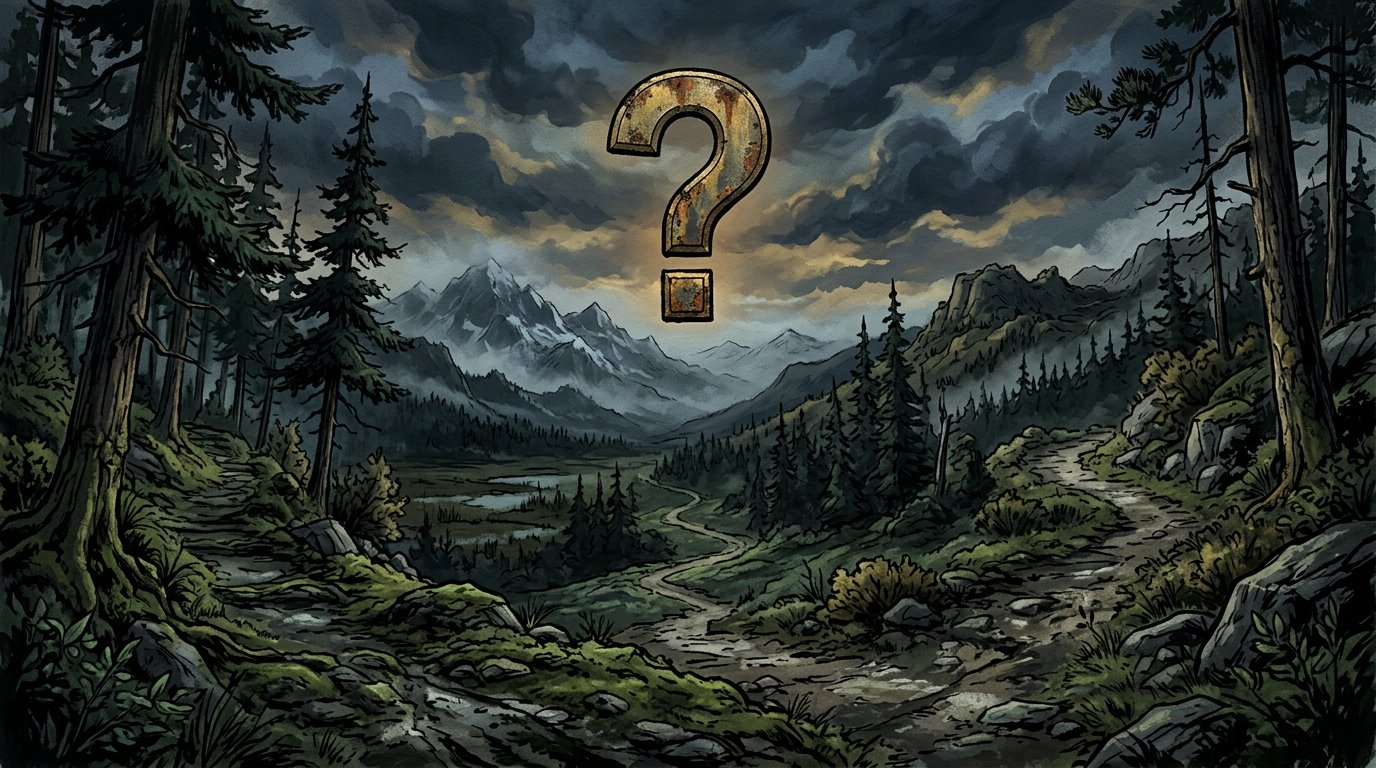
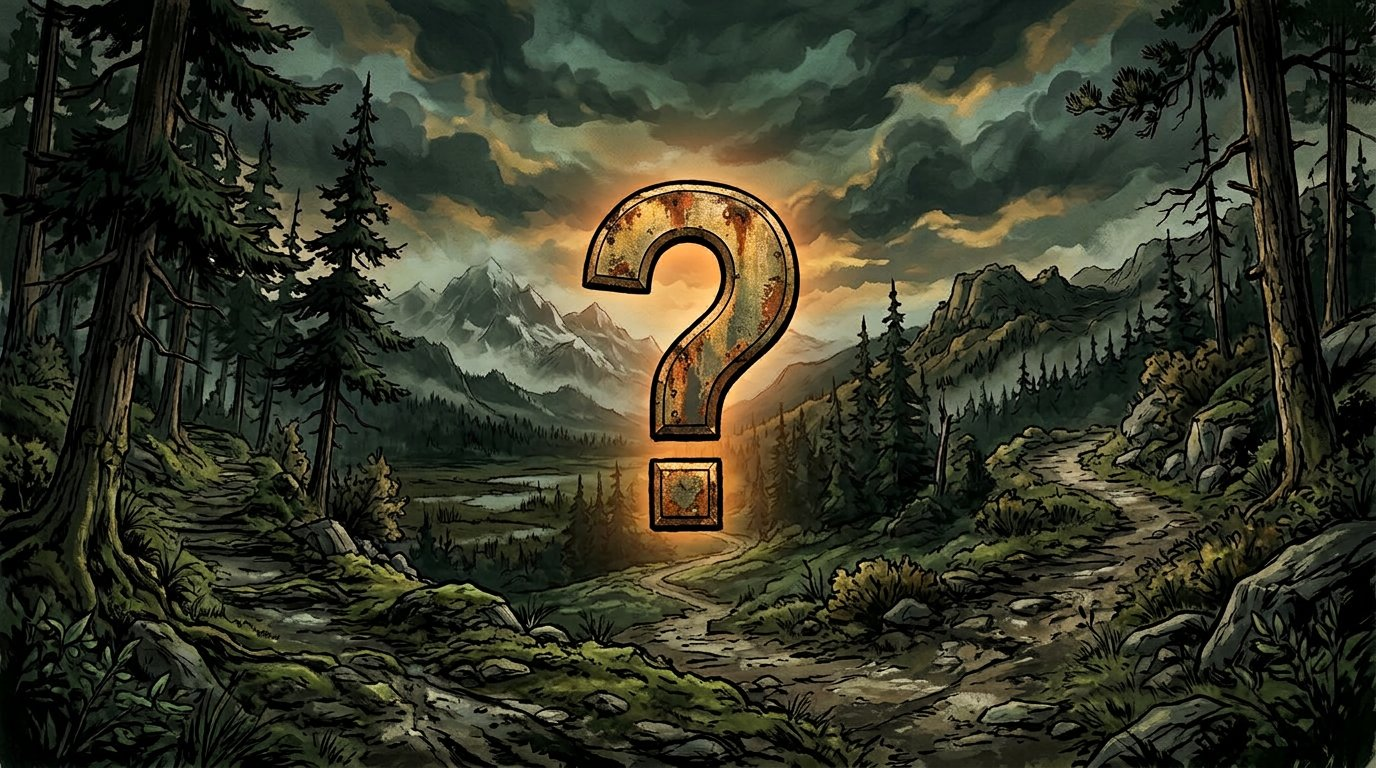
Endless-Bühne Feinschliff: Name oben, Stencil-DEPLOY mit Glow, Militär-Pfeile (IPL-0108)
- Kartenname sitzt oben am Bild, DEPLOY besitzt die Unterkante allein
- DEPLOY als Militär-Stencil auf dunkler Platte mit leuchtendem
  Messing-Rahmen und Ziel-Ecken, auf jedem Artwork lesbar
- Pfeile als genietete Oliv-Panzerplatten mit gefüllten
  Messing-Doppel-Chevrons
- Zufalls-Artwork neu: Fragezeichen exakt im Bildzentrum, wird bei
  cover-Zuschnitt nie angeschnitten
- Tests in menu-redesign und interface-smoke angepasst

diff --git a/IronPath/menu-redesign.css b/IronPath/menu-redesign.css
@@ -2670,8 +2670,10 @@ dialog#tutorialDossier::backdrop {
    ========================================================================== */
 
 /* The battlefield artwork is the whole stage: arrows and DEPLOY sit inside
-   the picture, the map name holds the bottom edge, and a click anywhere on
-   the artwork deploys. Nothing stands beside or below it any more. */
+   the picture, the map name holds the TOP edge (DEPLOY owns the bottom),
+   and a click anywhere on the artwork deploys. DEPLOY is a stencil-plate
+   with a glowing brass frame so it reads on every artwork; the arrows are
+   riveted armour plates with filled military double chevrons. */
 #endlessLaunch .endless-stage {
   position: relative;
   height: 352px;
@@ -2683,7 +2685,7 @@ dialog#tutorialDossier::backdrop {
   position: absolute;
   inset: 0;
   display: flex;
-  align-items: flex-end;
+  align-items: flex-start;
   padding: 18px 22px;
   box-sizing: border-box;
   border: 1px solid var(--hq-gold);
@@ -2719,37 +2721,37 @@ dialog#tutorialDossier::backdrop {
 
 #endlessLaunch .endless-theme-card[data-theme="random"] {
   background-image:
-    linear-gradient(180deg, rgba(11, 20, 16, 0.12) 0%, rgba(10, 18, 14, 0.88) 88%),
+    linear-gradient(180deg, rgba(10, 18, 14, 0.86) 0%, rgba(11, 20, 16, 0.10) 40%, rgba(10, 18, 14, 0.30) 100%),
     url("assets/endless-random.jpg");
 }
 
 #endlessLaunch .endless-theme-card[data-theme="scrub"] {
   background-image:
-    linear-gradient(180deg, rgba(11, 20, 16, 0.12) 0%, rgba(10, 18, 14, 0.88) 88%),
+    linear-gradient(180deg, rgba(10, 18, 14, 0.86) 0%, rgba(11, 20, 16, 0.10) 40%, rgba(10, 18, 14, 0.30) 100%),
     url("assets/story-outpost.jpg");
 }
 
 #endlessLaunch .endless-theme-card[data-theme="forest"] {
   background-image:
-    linear-gradient(180deg, rgba(11, 20, 16, 0.12) 0%, rgba(10, 18, 14, 0.88) 88%),
+    linear-gradient(180deg, rgba(10, 18, 14, 0.86) 0%, rgba(11, 20, 16, 0.10) 40%, rgba(10, 18, 14, 0.30) 100%),
     url("assets/story-pinewood.jpg");
 }
 
 #endlessLaunch .endless-theme-card[data-theme="urban"] {
   background-image:
-    linear-gradient(180deg, rgba(11, 20, 16, 0.12) 0%, rgba(10, 18, 14, 0.88) 88%),
+    linear-gradient(180deg, rgba(10, 18, 14, 0.86) 0%, rgba(11, 20, 16, 0.10) 40%, rgba(10, 18, 14, 0.30) 100%),
     url("assets/story-city.jpg");
 }
 
 #endlessLaunch .endless-theme-card[data-theme="arctic"] {
   background-image:
-    linear-gradient(180deg, rgba(11, 20, 16, 0.12) 0%, rgba(10, 18, 14, 0.88) 88%),
+    linear-gradient(180deg, rgba(10, 18, 14, 0.86) 0%, rgba(11, 20, 16, 0.10) 40%, rgba(10, 18, 14, 0.30) 100%),
     url("assets/story-ice.jpg");
 }
 
 #endlessLaunch .endless-theme-card[data-theme="marsh"] {
   background-image:
-    linear-gradient(180deg, rgba(11, 20, 16, 0.12) 0%, rgba(10, 18, 14, 0.88) 88%),
+    linear-gradient(180deg, rgba(10, 18, 14, 0.86) 0%, rgba(11, 20, 16, 0.10) 40%, rgba(10, 18, 14, 0.30) 100%),
     url("assets/story-marsh.jpg");
 }
 
@@ -2760,18 +2762,23 @@ dialog#tutorialDossier::backdrop {
   z-index: 2;
   display: grid;
   place-items: center;
-  width: 46px;
-  min-width: 46px;
-  height: 76px;
+  width: 50px;
+  min-width: 50px;
+  height: 64px;
   margin: 0;
   padding: 0;
-  border: 1px solid rgba(228, 202, 137, 0.55);
-  border-radius: 10px;
-  background: linear-gradient(180deg, rgba(13, 23, 18, 0.72) 0%, rgba(13, 23, 18, 0.52) 100%);
-  color: var(--hq-gold);
-  box-shadow: 0 6px 16px rgba(0, 0, 0, 0.42), inset 0 1px 0 rgba(228, 202, 137, 0.22);
+  border: 1px solid rgba(228, 202, 137, 0.8);
+  border-radius: 6px;
+  background:
+    radial-gradient(circle at 9px 9px, rgba(243, 223, 176, 0.95) 1.7px, rgba(0, 0, 0, 0.35) 2.4px, transparent 3px),
+    radial-gradient(circle at calc(100% - 9px) 9px, rgba(243, 223, 176, 0.95) 1.7px, rgba(0, 0, 0, 0.35) 2.4px, transparent 3px),
+    radial-gradient(circle at 9px calc(100% - 9px), rgba(243, 223, 176, 0.95) 1.7px, rgba(0, 0, 0, 0.35) 2.4px, transparent 3px),
+    radial-gradient(circle at calc(100% - 9px) calc(100% - 9px), rgba(243, 223, 176, 0.95) 1.7px, rgba(0, 0, 0, 0.35) 2.4px, transparent 3px),
+    linear-gradient(160deg, rgba(47, 68, 50, 0.94) 0%, rgba(12, 21, 15, 0.92) 100%);
+  color: #f0d48a;
+  box-shadow: 0 8px 20px rgba(0, 0, 0, 0.5), inset 0 1px 0 rgba(243, 223, 176, 0.35), inset 0 0 12px rgba(0, 0, 0, 0.45);
   cursor: pointer;
-  transition: border-color 140ms ease, background-color 140ms ease, color 140ms ease, box-shadow 140ms ease;
+  transition: border-color 140ms ease, color 140ms ease, box-shadow 140ms ease;
 }
 
 #endlessLaunch .endless-arrow-prev {
@@ -2784,16 +2791,16 @@ dialog#tutorialDossier::backdrop {
 
 #endlessLaunch .endless-arrow .endless-arrow-icon {
   display: block;
-  width: 24px;
-  height: 42px;
+  width: 30px;
+  height: 30px;
+  filter: drop-shadow(0 0 5px rgba(240, 212, 138, 0.45));
   transition: transform 140ms ease;
 }
 
 #endlessLaunch .endless-arrow:hover {
-  border-color: var(--hq-gold);
-  background: linear-gradient(180deg, rgba(42, 68, 55, 0.88) 0%, rgba(24, 42, 34, 0.82) 100%);
-  color: #f8e6b4;
-  box-shadow: 0 0 0 1px rgba(228, 202, 137, 0.24), 0 8px 20px rgba(0, 0, 0, 0.5);
+  border-color: #ffe9a8;
+  color: #ffeeb8;
+  box-shadow: 0 0 0 1px rgba(228, 202, 137, 0.3), 0 0 16px rgba(232, 201, 124, 0.4), 0 8px 20px rgba(0, 0, 0, 0.5), inset 0 1px 0 rgba(243, 223, 176, 0.4);
 }
 
 #endlessLaunch .endless-arrow-prev:hover .endless-arrow-icon {
@@ -2815,24 +2822,53 @@ dialog#tutorialDossier::backdrop {
   bottom: 16px;
   transform: translateX(-50%);
   z-index: 2;
-  min-width: 210px;
-  min-height: 50px;
+  min-width: 220px;
+  min-height: 54px;
   margin: 0;
-  padding: 12px 30px;
-  border: 1px solid var(--hq-gold);
-  border-radius: var(--hq-radius);
-  background: var(--hq-gold);
-  color: #101914;
-  font-weight: 800;
-  font-size: 15px;
-  letter-spacing: 0.14em;
+  padding: 13px 32px;
+  border: 2px solid #e8c97c;
+  border-radius: 6px;
+  background: linear-gradient(180deg, rgba(43, 62, 45, 0.94) 0%, rgba(9, 16, 11, 0.96) 100%);
+  color: #ffe9a8;
+  font-family: "Arial Black", Impact, "Franklin Gothic Medium", sans-serif;
+  font-weight: 900;
+  font-size: 16px;
+  letter-spacing: 0.22em;
+  text-indent: 0.22em;
   white-space: nowrap;
-  box-shadow: 0 10px 24px rgba(0, 0, 0, 0.52), inset 0 1px 0 rgba(255, 255, 255, 0.35);
+  text-shadow: 0 0 10px rgba(255, 214, 120, 0.9), 0 0 24px rgba(255, 190, 80, 0.55), 0 2px 3px rgba(0, 0, 0, 0.85);
+  box-shadow: 0 0 0 1px rgba(0, 0, 0, 0.7), 0 0 18px rgba(232, 201, 124, 0.65), 0 0 44px rgba(232, 201, 124, 0.3), inset 0 0 16px rgba(232, 201, 124, 0.25), inset 0 1px 0 rgba(255, 255, 255, 0.18), 0 12px 26px rgba(0, 0, 0, 0.55);
+  cursor: pointer;
+  transition: box-shadow 140ms ease, color 140ms ease, border-color 140ms ease;
+}
+
+#endlessLaunch #endlessDeploy::before,
+#endlessLaunch #endlessDeploy::after {
+  content: "";
+  position: absolute;
+  width: 16px;
+  height: 16px;
+  filter: drop-shadow(0 0 4px rgba(255, 220, 140, 0.85));
+}
+
+#endlessLaunch #endlessDeploy::before {
+  top: -8px;
+  left: -8px;
+  border-top: 2px solid #ffe9a8;
+  border-left: 2px solid #ffe9a8;
+}
+
+#endlessLaunch #endlessDeploy::after {
+  right: -8px;
+  bottom: -8px;
+  border-right: 2px solid #ffe9a8;
+  border-bottom: 2px solid #ffe9a8;
 }
 
 #endlessLaunch #endlessDeploy:hover {
-  background: #f3dfb0;
-  border-color: #f3dfb0;
+  border-color: #fff0c0;
+  color: #fff6da;
+  box-shadow: 0 0 0 1px rgba(0, 0, 0, 0.7), 0 0 26px rgba(255, 220, 140, 0.85), 0 0 58px rgba(232, 201, 124, 0.4), inset 0 0 20px rgba(232, 201, 124, 0.35), inset 0 1px 0 rgba(255, 255, 255, 0.22), 0 12px 26px rgba(0, 0, 0, 0.55);
 }
 
 #endlessLaunch #endlessDeploy:focus-visible {
@@ -2864,16 +2900,18 @@ dialog#tutorialDossier::backdrop {
   }
 
   #endlessLaunch .endless-arrow .endless-arrow-icon {
-    width: 19px;
-    height: 33px;
+    width: 24px;
+    height: 24px;
   }
 
   #endlessLaunch #endlessDeploy {
-    min-width: 168px;
-    min-height: 46px;
+    min-width: 180px;
+    min-height: 48px;
     bottom: 12px;
-    padding: 10px 22px;
+    padding: 11px 24px;
     font-size: 14px;
+    letter-spacing: 0.18em;
+    text-indent: 0.18em;
   }
 
   #endlessLaunch #endlessSelectedTheme {

diff --git a/IronPath/index.html b/IronPath/index.html
@@ -245,17 +245,15 @@
         <strong id="endlessSelectedTheme">Random battlefield</strong>
       </div>
       <button id="endlessPrev" class="endless-arrow endless-arrow-prev" type="button" aria-label="Previous battlefield" data-i18n-aria-label="Previous battlefield">
-        <svg class="endless-arrow-icon" viewBox="0 0 28 48" width="24" height="42" aria-hidden="true" focusable="false">
-          <path d="M19 7L7 24l12 17" fill="none" stroke="currentColor" stroke-width="3.2" stroke-linecap="square" stroke-linejoin="miter"/>
-          <path d="M23 14l-7 10 7 10" fill="none" stroke="currentColor" stroke-width="1.6" stroke-linecap="square" stroke-linejoin="miter" opacity="0.55"/>
-          <line x1="4" y1="18" x2="4" y2="30" stroke="currentColor" stroke-width="2" opacity="0.72"/>
+        <svg class="endless-arrow-icon" viewBox="0 0 48 48" width="30" height="30" aria-hidden="true" focusable="false">
+          <path d="M37 6 L19 24 L37 42 L42 37 L29 24 L42 11 Z" fill="currentColor"/>
+          <path d="M23 11 L11 24 L23 37 L27 33 L19 24 L27 15 Z" fill="currentColor" opacity="0.55"/>
         </svg>
       </button>
       <button id="endlessNext" class="endless-arrow endless-arrow-next" type="button" aria-label="Next battlefield" data-i18n-aria-label="Next battlefield">
-        <svg class="endless-arrow-icon" viewBox="0 0 28 48" width="24" height="42" aria-hidden="true" focusable="false">
-          <path d="M9 7l12 17L9 41" fill="none" stroke="currentColor" stroke-width="3.2" stroke-linecap="square" stroke-linejoin="miter"/>
-          <path d="M5 14l7 10-7 10" fill="none" stroke="currentColor" stroke-width="1.6" stroke-linecap="square" stroke-linejoin="miter" opacity="0.55"/>
-          <line x1="24" y1="18" x2="24" y2="30" stroke="currentColor" stroke-width="2" opacity="0.72"/>
+        <svg class="endless-arrow-icon" viewBox="0 0 48 48" width="30" height="30" aria-hidden="true" focusable="false">
+          <path d="M11 6 L29 24 L11 42 L6 37 L19 24 L6 11 Z" fill="currentColor"/>
+          <path d="M25 11 L37 24 L25 37 L21 33 L29 24 L21 15 Z" fill="currentColor" opacity="0.55"/>
         </svg>
       </button>
       <button id="endlessDeploy" class="primary endless-deploy" type="button" data-i18n-text="DEPLOY">DEPLOY</button>

diff --git a/IronPath/docs/PATCH-LOG.md b/IronPath/docs/PATCH-LOG.md
@@ -6,7 +6,7 @@ aber ersetzt weder Git noch die GitHub-PR-Historie. Die dazugehörige
 [Arbeitsanweisung](../../AGENTS.md) verlangt, dieses Log vor der Arbeit zu lesen
 und nach jedem in sich abgeschlossenen Schritt fortzuschreiben.
 
-Die Einträge IPL-0001 bis IPL-0087 stehen im
+Die Einträge IPL-0001 bis IPL-0088 stehen im
 [Archiv](PATCH-LOG-ARCHIV.md); hier stehen die neuesten 20. Beide Dateien
 zusammen sind lückenlos und doppelfrei - `../scripts/patch.mjs` (Unterbefehl `check`) und
 `../tests/patch-log-archive.test.mjs` prüfen das.
@@ -45,18 +45,6 @@ jedes Feld gehört und was nicht hineindarf. Eine Kopie hier würde auseinanderl
 
 
 
-## IPL-0088 – Turm-Radialmenü: Optik, SVG-Symbole & Erstattungsanzeige für `Confirm sale` / `Cancel` (`20261120-sellicon1`, Ziel-PR `#333`)
-- **Zeit / Quelle:** 2026-10-31 UTC (Nutzerrückmeldung: „Confirm sale im Turm Menu hat keine Optik, bzw. kein Bild oder sonst was. Prüfen und reparieren“); Arbeitsbranch `arena/cd53c79d-0815games-github-io` ab `77831bd55f243f0c9b1cbd7a3dbb0768495b3ddc` (`main`, PR `#332`). Status aktuell: `lokal/uncommittet`.
-- **Ursachenanalyse (`IronPath/game.js:1063–1115` & `IronPath/interface-redesign.css:788–835`):**
-  1. Im Gegensatz zu `upgrade`, `sell`, `branch` und `classUpgrade` setzten die Aktionen im Modus `confirmSell` (`Confirm sale` und `Cancel`) kein `icon`-Feld. Dadurch entfernte `showMenu` `button.dataset.icon` und leerte `#menuArt*`, sodass die zentralen 34×34-px-Symbolflächen der runden Radial-Buttons komplett leer blieben.
-  2. Zusätzlich hängte `Confirm sale` den Erstattungsbetrag (`· +{amount}`) direkt an den 26 Zeichen langen deutschen Button-Text (`Verkauf bestätigen · +XX`), der in der 72–78 px breiten Rundfläche abgeschnitten wurde, während `.sheet-price` leer blieb; außerdem überschrieb die allgemeine V3-Button-Regel (`(0,4,1)`) in `interface-redesign.css` klassenbasierte `.sheet-option`-Hintergründe (`(0,3,0)`).
-- **Änderungen / Dateien:**
-  - `IronPath/assets/icon-confirm-sell.svg`, `IronPath/assets/icon-cancel.svg`: Neue 32×32-Vektorsymbole (Gold-Vorratsmünze mit grünem Bestätigungshaken bzw. Eisenring mit korallrotem Abbrechen-Kreuz).
-  - `IronPath/game.js`: `confirmSell` vergibt `icon: 'confirmSell'`, separates `price: mine ? \`+${refund}\` : null` und `label: tr('Confirm sale')` bzw. `icon: 'cancel'` auf `Cancel`; im normalen Turmmenü (`sell`) nutzt `Sell tower` ebenfalls das einheitliche goldene `.sheet-price`-Feld.
-  - `IronPath/interface-redesign.css`: `[data-icon="confirmSell"]`/`.[data-icon="cancel"]`-SVG-Mappings, zweizeiliger Textumbruch für lange deutsche Beschriftungen (Desktop & `<=600px`) sowie höher-spezifische `#radialMenu.tower-radial .sheet-option[data-icon="confirmSell"|"cancel"]`-Ringe (Messing/Gold bzw. kühles Eisen) hinter der V3-Button-Regel.
-  - **Tests & Cache-Welle `20261120-sellicon1`:** Ausgebaute Assertions in `IronPath/tests/tower-ring.test.mjs`, `IronPath/tests/solo-smoke.test.mjs` (EN & DE inkl. `data-icon` & `+60`-Erstattung), `IronPath/browser-tests/interface-smoke.cjs` (`confirm-sell-ring.png`), `IronPath/browser-tests/command-center.cjs` (echter Klickpfad `Turm -> Sell -> confirmSell -> Cancel`), `IronPath/browser-tests/cache-wave.cjs`, `IronPath/release-version.json`, `IronPath/patch-notes.mjs` sowie Cache-Wave-Stempel `20261120-sellicon1`.
-- **Status:** `gemergt` auf `main` (`a8df4534e360f1f78358df2570cbe6fc9b14c807`, PR `#333`, CI `44737997344` & Pages-Deploy `44739899987` grün).
-- **Offen:** Echte Geräteprüfung auf iPhone/Desktop nach Merge.
 
 ## IPL-0089 – Endlos-Sektorrückzug: Vollbild-Gefechtsfeld im Hochformat & Zoom-Übergang (`20261120-endlessview1`, Ziel-PR `#334`)
 - **Zeit / Quelle:** 2026-10-31 UTC (Nutzerrückmeldung: auf dem Handy füllen Wellen 1–10 den gesamten Hochformat-Bildschirm beim Zoomen; ab Welle 10 / neuem Sektor schrumpft das Feld auf rund ein Drittel der Bildschirmhöhe und verweigert Vollbild-Zoom); Arbeitsbranch `arena/6782c8ab-0815games-github-io` ab `a8df4534e360f1f78358df2570cbe6fc9b14c807` (`main`, PR `#333`). Status aktuell: `lokal/uncommittet`.
@@ -957,3 +945,16 @@ sie geprüft wurde.
 - **Prüfungen:** `node --test IronPath/tests/*.test.mjs`: tests 1287 / pass 1286 / skipped 1 / fail 0, Exit 0; der eine ausgelassene Test ist der bekannte Flachklon-Effekt in `release-pages-site.test.mjs` („Pinned ancestor commits require a full Git checkout“) – nach `git fetch --unshallow origin` läuft diese Datei 6/6, die Suite ist damit effektiv vollständig grün. `node IronPath/scripts/patch.mjs check --fast`: 0 Fehler, 2 Hinweise (Stand vor der Cache-Welle). Kein lokaler Chromium: Browser-Fahrten (`command-center`, `interface-smoke`) laufen erst in der CI.
 - **Git / PR / Release:** Ereignis-Nachtrag zu `IPL-0106`: PR `#368` am 2026-11-23 als `3983d9dc72572cff4dc3d67f5f15786cb069efdd` gemergt, Pages-Build `built`, `release-version.json` auf `main` trägt `20261123-blocke1` (Auslieferung im PR-Text belegt). Dieser Eintrag wird mit Welle und PR-Nummer fortgeschrieben.
 - **Offen / nächster Schritt:** Gesamtsuite auf der Welle, CI zu PR `#369`, Merge und Pages-Nachweis. Aus Block E bleibt Scheibe 2 (Treffer-Feedback/Tutorial, Host-/Reconnect-Prüfung im Detail, menschliche Balance mit Block C) ein eigenes späteres Paket.
+
+## IPL-0108 – Endless-Bühne Feinschliff: Name oben, Stencil-DEPLOY mit Glow-Rahmen, Militär-Pfeile, zentriertes Fragezeichen
+- **Zeit / Quelle:** 2026-11-23 UTC; Betreiber-Rückmeldung zum ausgelieferten `IPL-0107` (DEPLOY liegt über dem Kartennamen, Fragezeichen im Zufallsbild teilweise abgeschnitten, Pfeile optisch unpassend) plus Vorgabe „Deploy als Military Schrift mit Glow rahmen … Oder erstell ein bild“ und „Lets gooooooo“.
+- **Block / Ziel:** Feinschliff am Endless-Startdialog, kein Block-Thema.
+- **Branch / Basis:** `arena/4748275f-0815games-github-io` ab `007bb594f120aeb1b4025c526a1a356dfa2f57ad` (`main`, Merge PR `#369`). Status: lokal umgesetzt, Commit/PR folgen.
+- **Änderungen / Dateien:**
+  - `IronPath/menu-redesign.css`: Kartenname `#endlessSelectedTheme` sitzt jetzt oben am Bild (`.endless-theme-card` mit `align-items:flex-start`, Lichtkante aller 6 Themen-Verläufe nach oben gedreht) – DEPLOY besitzt die Bildunterkante allein. `#endlessDeploy` als Militär-Stencil: dunkle Oliv-Platte, 2-px-Messing-Rahmen mit Außen- und Innen-Glow (`0 0 18px`/`44px`), Schrift in „Arial Black“/Impact mit 0.22em Laufweite und eigenem Buchstaben-Glow, dazu leuchtende Ziel-Ecken oben links/unten rechts. Neue `.endless-arrow`-Platten: olivgrüne Panzerplatte mit vier Nieten (radial-gradient), gefüllte Messing-Doppel-Chevrons als SVG mit Drop-Shadow, Hover mit Glow-Rand.
+  - `IronPath/index.html`: Pfeil-SVGs durch gefüllte Doppel-Chevrons (`viewBox 0 0 48 48`) ersetzt.
+  - `IronPath/assets/endless-random.jpg`: Artwork neu erzeugt – das rostige Messing-Fragezeichen sitzt jetzt exakt im Bildzentrum; bei `background-size:cover` + `center` bleibt es damit auf jeder Bühnengröße zentriert und wird nie angeschnitten.
+  - Tests: `IronPath/tests/menu-redesign.test.mjs` (Anker: Name oben, Stencil-Glow-DEPLOY, 48er-Chevron-SVGs), `IronPath/browser-tests/interface-smoke.cjs` (Geometrie: Name in der oberen Bildhälfte und immer oberhalb von DEPLOY).
+- **Prüfungen:** `node --test IronPath/tests/menu-redesign.test.mjs IronPath/tests/endless-launcher.test.mjs`: 18/18. `patch.mjs check --fast`: 0 Fehler (2 Hinweise vor der Welle). Sichtprüfung über lokale Live-Vorschau durch den Betreiber möglich; Browser-Fahrten laufen mangels lokalem Chromium in der CI. Gesamtsuite folgt auf der Cache-Welle.
+- **Git / PR / Release:** Wird mit Welle und PR-Nummer fortgeschrieben.
+- **Offen / nächster Schritt:** Cache-Welle `20261123-endless2` inkl. Feldnotizen, PR, CI, Merge, Pages-Nachweis. Block E Scheibe 2 bleibt eigenes Paket.

diff --git a/IronPath/docs/PATCH-LOG-ARCHIV.md b/IronPath/docs/PATCH-LOG-ARCHIV.md
@@ -1,6 +1,6 @@
 # Iron Path – Patch-Log: Archiv
 
-Ältere Einträge IPL-0001 bis IPL-0087. Die neuesten 20 stehen in
+Ältere Einträge IPL-0001 bis IPL-0088. Die neuesten 20 stehen in
 [PATCH-LOG.md](PATCH-LOG.md); die Regeln für beide Dateien dort und in
 [`../../AGENTS.md`](../../AGENTS.md). Beim Verschieben wandert ein Eintrag immer
 vollständig einschließlich seiner Ereignis-Nachträge.
@@ -3648,3 +3648,16 @@ Grenzen / Offen:
   - **Tests & Cache-Welle `20261120-audio3`:** Erweiterte Musik-/DSP-/Schleifen-Checks in `IronPath/tests/battle-sound.test.mjs`, `IronPath/browser-tests/cache-wave.cjs` (`20261120-audio2` in `oldUrls`), `IronPath/release-version.json`, `IronPath/patch-notes.mjs` (`RELEASED_PATCHES[0]` `audio3` / PR `#332`) sowie alle **78** Cache-Stempel auf `20261120-audio3`.
 - **Prüfungen:** Numerischer 44,1-kHz-DSP-Check (`maxStepSlew` von `0.4651` auf `<= 0.0086`, Peak `<= 0.2589`, `0` Sawtooth-Oszillatoren), `node --check`, vollständige Node-Testsuite & `stress-tests/run.mjs`.
 - **Offen:** Echte Hörprobe auf iPhone Safari und Desktop auf `20261120-audio3` nach Merge.
+
+## IPL-0088 – Turm-Radialmenü: Optik, SVG-Symbole & Erstattungsanzeige für `Confirm sale` / `Cancel` (`20261120-sellicon1`, Ziel-PR `#333`)
+- **Zeit / Quelle:** 2026-10-31 UTC (Nutzerrückmeldung: „Confirm sale im Turm Menu hat keine Optik, bzw. kein Bild oder sonst was. Prüfen und reparieren“); Arbeitsbranch `arena/cd53c79d-0815games-github-io` ab `77831bd55f243f0c9b1cbd7a3dbb0768495b3ddc` (`main`, PR `#332`). Status aktuell: `lokal/uncommittet`.
+- **Ursachenanalyse (`IronPath/game.js:1063–1115` & `IronPath/interface-redesign.css:788–835`):**
+  1. Im Gegensatz zu `upgrade`, `sell`, `branch` und `classUpgrade` setzten die Aktionen im Modus `confirmSell` (`Confirm sale` und `Cancel`) kein `icon`-Feld. Dadurch entfernte `showMenu` `button.dataset.icon` und leerte `#menuArt*`, sodass die zentralen 34×34-px-Symbolflächen der runden Radial-Buttons komplett leer blieben.
+  2. Zusätzlich hängte `Confirm sale` den Erstattungsbetrag (`· +{amount}`) direkt an den 26 Zeichen langen deutschen Button-Text (`Verkauf bestätigen · +XX`), der in der 72–78 px breiten Rundfläche abgeschnitten wurde, während `.sheet-price` leer blieb; außerdem überschrieb die allgemeine V3-Button-Regel (`(0,4,1)`) in `interface-redesign.css` klassenbasierte `.sheet-option`-Hintergründe (`(0,3,0)`).
+- **Änderungen / Dateien:**
+  - `IronPath/assets/icon-confirm-sell.svg`, `IronPath/assets/icon-cancel.svg`: Neue 32×32-Vektorsymbole (Gold-Vorratsmünze mit grünem Bestätigungshaken bzw. Eisenring mit korallrotem Abbrechen-Kreuz).
+  - `IronPath/game.js`: `confirmSell` vergibt `icon: 'confirmSell'`, separates `price: mine ? \`+${refund}\` : null` und `label: tr('Confirm sale')` bzw. `icon: 'cancel'` auf `Cancel`; im normalen Turmmenü (`sell`) nutzt `Sell tower` ebenfalls das einheitliche goldene `.sheet-price`-Feld.
+  - `IronPath/interface-redesign.css`: `[data-icon="confirmSell"]`/`.[data-icon="cancel"]`-SVG-Mappings, zweizeiliger Textumbruch für lange deutsche Beschriftungen (Desktop & `<=600px`) sowie höher-spezifische `#radialMenu.tower-radial .sheet-option[data-icon="confirmSell"|"cancel"]`-Ringe (Messing/Gold bzw. kühles Eisen) hinter der V3-Button-Regel.
+  - **Tests & Cache-Welle `20261120-sellicon1`:** Ausgebaute Assertions in `IronPath/tests/tower-ring.test.mjs`, `IronPath/tests/solo-smoke.test.mjs` (EN & DE inkl. `data-icon` & `+60`-Erstattung), `IronPath/browser-tests/interface-smoke.cjs` (`confirm-sell-ring.png`), `IronPath/browser-tests/command-center.cjs` (echter Klickpfad `Turm -> Sell -> confirmSell -> Cancel`), `IronPath/browser-tests/cache-wave.cjs`, `IronPath/release-version.json`, `IronPath/patch-notes.mjs` sowie Cache-Wave-Stempel `20261120-sellicon1`.
+- **Status:** `gemergt` auf `main` (`a8df4534e360f1f78358df2570cbe6fc9b14c807`, PR `#333`, CI `44737997344` & Pages-Deploy `44739899987` grün).
+- **Offen:** Echte Geräteprüfung auf iPhone/Desktop nach Merge.
